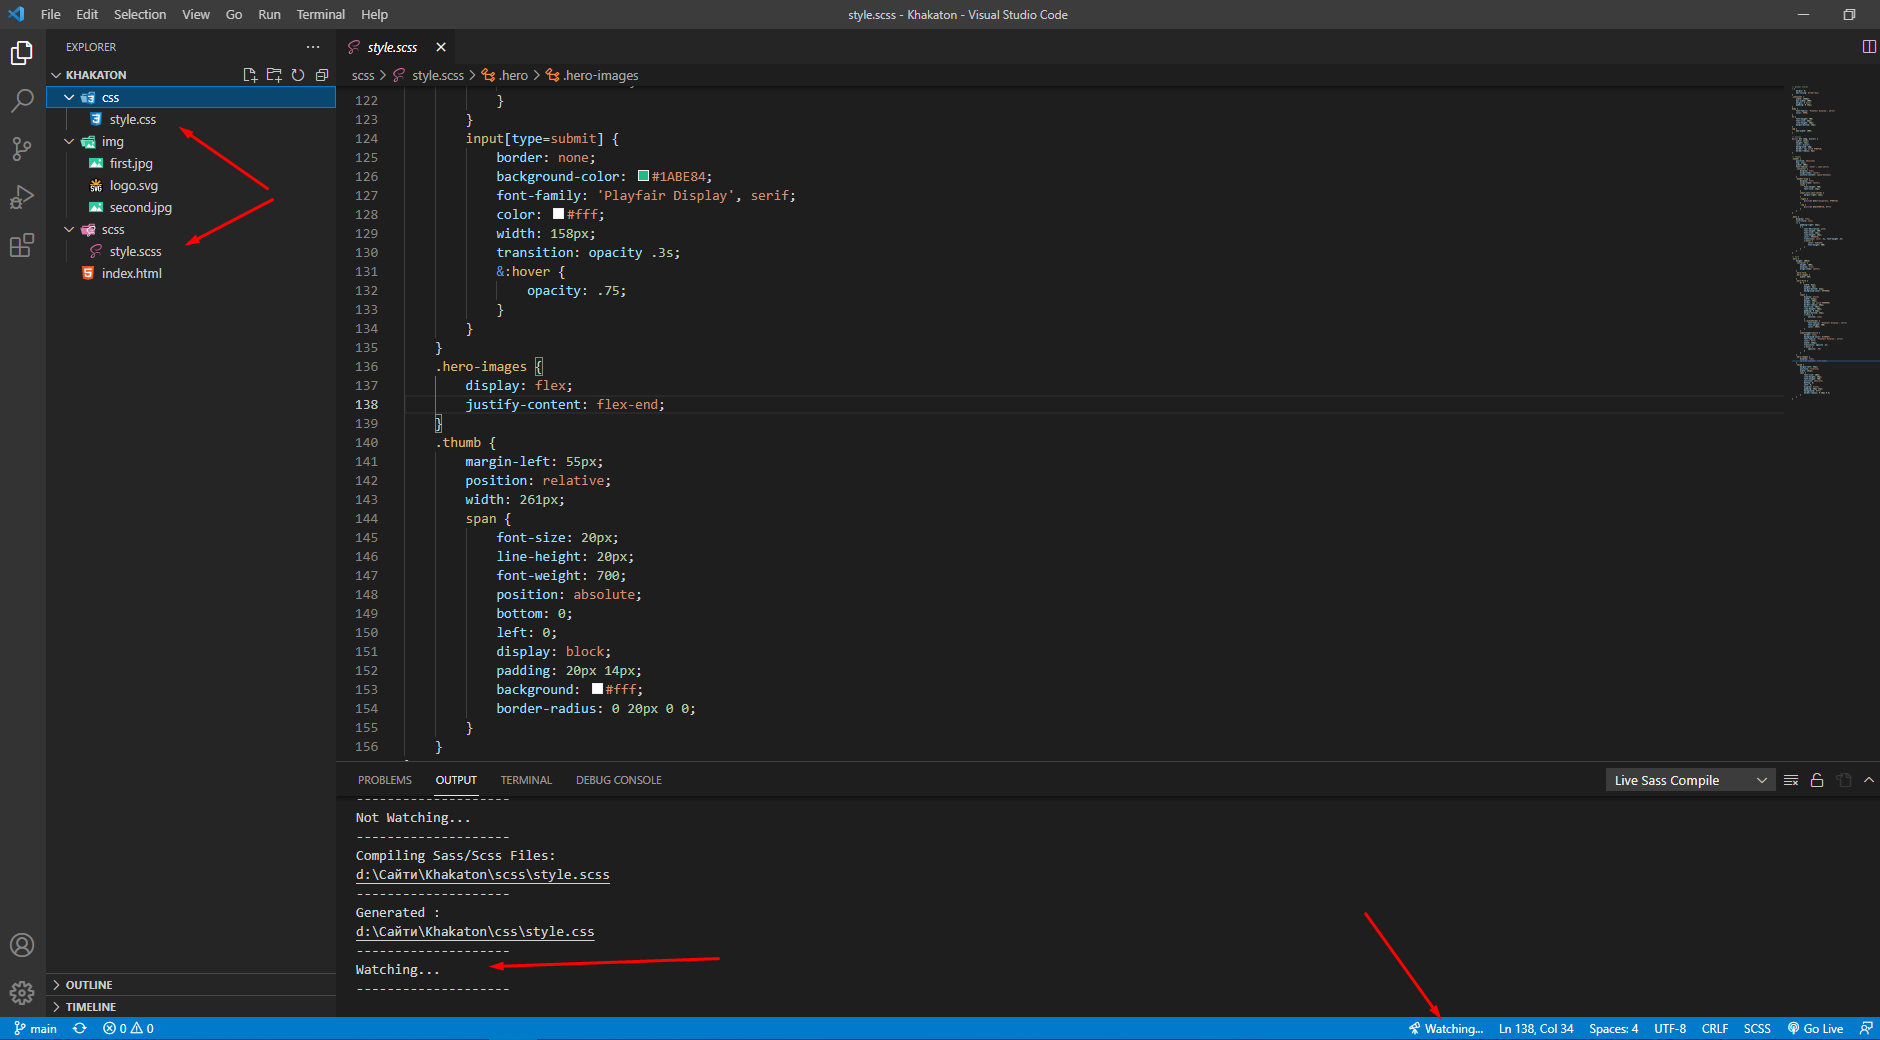
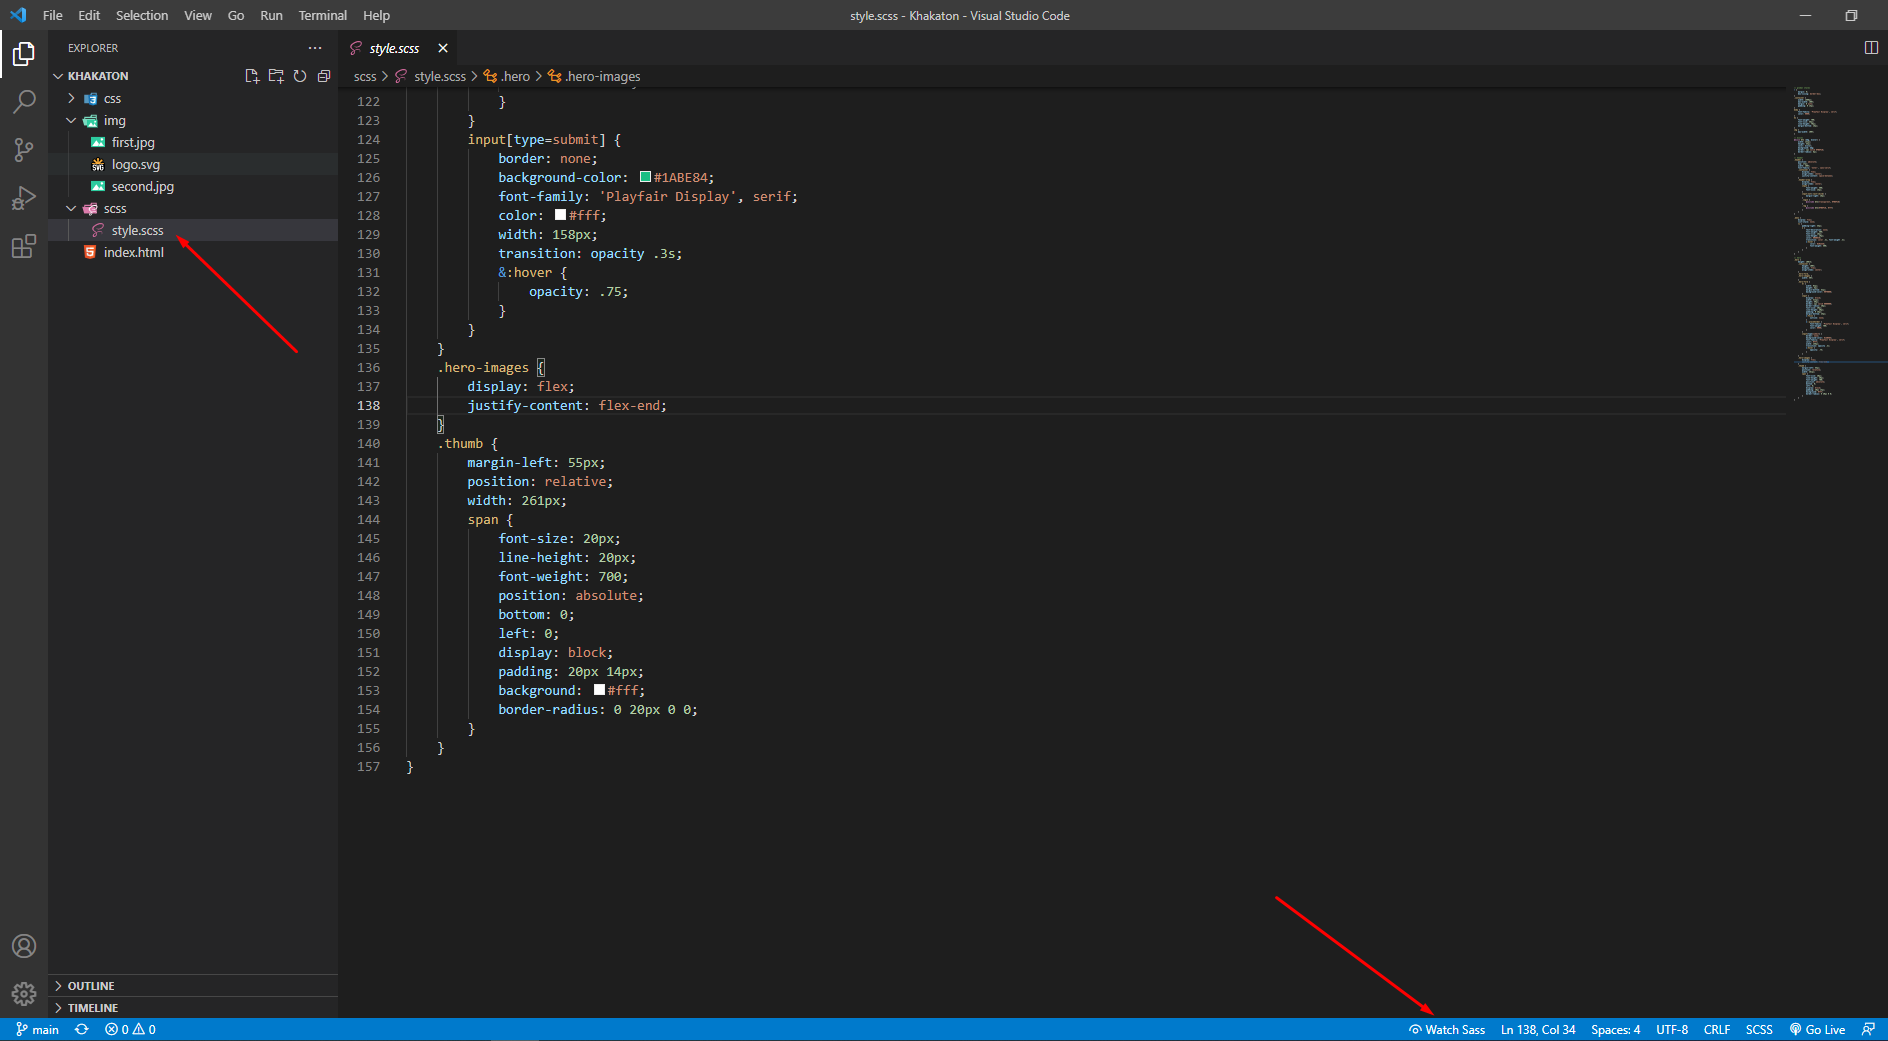
GitBook: [master] 31 pages and 6 assets modified

diff --git a/urok-30.-preprocesori-sass-scss.-pidklyuchennya-do-proektu..md b/urok-30.-preprocesori-sass-scss.-pidklyuchennya-do-proektu..md
@@ -125,15 +125,15 @@ $nothing: null;
 
 Тепер ми можемо створити файл із розширенням .scss. Саме таке розширення мають файли препроцесора. Наприклад, style.scss. Коли такий файл створено, то внизу редактора з'являється кнопка "Watch sass". Необхідно натиснути на неї і наше розширення почне відстежувати зміни в файлі. Після кожного збереження буде заново компілюватись однойменний файл стилів у форматі .css
 
-![&#x424;&#x430;&#x439;&#x43B; &#x434;&#x43E; &#x432;&#x432;&#x456;&#x43C;&#x43A;&#x43D;&#x435;&#x43D;&#x43D;&#x44F; &#x440;&#x43E;&#x437;&#x448;&#x438;&#x440;&#x435;&#x43D;&#x43D;&#x44F;](.gitbook/assets/image%20%2822%29.png)
+![&#x424;&#x430;&#x439;&#x43B; &#x434;&#x43E; &#x432;&#x432;&#x456;&#x43C;&#x43A;&#x43D;&#x435;&#x43D;&#x43D;&#x44F; &#x440;&#x43E;&#x437;&#x448;&#x438;&#x440;&#x435;&#x43D;&#x43D;&#x44F;](.gitbook/assets/image%20%2823%29.png)
 
-![&#x421;&#x43A;&#x43E;&#x43C;&#x43F;&#x456;&#x43B;&#x44C;&#x43E;&#x432;&#x430;&#x43D;&#x438;&#x439; &#x444;&#x430;&#x439;&#x43B; &#x441;&#x442;&#x438;&#x43B;&#x456;&#x432; &#x443; &#x444;&#x43E;&#x440;&#x43C;&#x430;&#x442;&#x456; .css](.gitbook/assets/image%20%2823%29.png)
+![&#x421;&#x43A;&#x43E;&#x43C;&#x43F;&#x456;&#x43B;&#x44C;&#x43E;&#x432;&#x430;&#x43D;&#x438;&#x439; &#x444;&#x430;&#x439;&#x43B; &#x441;&#x442;&#x438;&#x43B;&#x456;&#x432; &#x443; &#x444;&#x43E;&#x440;&#x43C;&#x430;&#x442;&#x456; .css](.gitbook/assets/image%20%2824%29.png)
 
 Без налаштувань, компілятор створить звичайний файл стилів однойменний із файлом препроцесора, а також карту стилів. І все це він збереже в поточній папці. Зазвичай така карта є зайвою. А також зручно зберігати файли різного формату в окремих папках. Тому, пропоную виконати деякі налаштування розширення.
 
 Для цього натискаємо комбінацію клавіш Ctrl + Shift + P і вводимо "Open settings \(Json\)"
 
-![](.gitbook/assets/image%20%2824%29.png)
+![](.gitbook/assets/image%20%2825%29.png)
 
 Відкриється файл налаштувань, в кінці якого потрібно ввести наступний код:
 
@@ -151,7 +151,7 @@ $nothing: null;
 
 Після таких налаштувань ми створюємо окрему папку для файлів препроцесора. Зазвичай її називають `scss`. Після ввімкнення розширення. він скомпілює стилі в папку `css`.
 
-![](.gitbook/assets/image%20%2821%29.png)
+![](.gitbook/assets/image%20%2822%29.png)
 
 ### IV. Застосування знань на практиці
 

diff --git a/urok-31.-preprocesori-sass-scss-miksini-ta-import-failiv..md b/urok-31.-preprocesori-sass-scss-miksini-ta-import-failiv..md
@@ -18,6 +18,35 @@
 
 ### ІІІ. Вивчення нового матеріалу
 
+#### Імпорт файлів
+
+Коли проект доволі масштабний, то є сенс розділяти таблицю стилів на окремі файли. Наприклад:
+
+* mixins.css
+* header.scss
+* main.scss
+* footer.scss
+* blog.scss
+* home-page.scss
+
+І всі ці файли ми скомпілюємо в один файл style.css. Тому файл style.css теж потрібен.
+
+Щоб підключити до основного файлу стилів інші файли, потрібно на самому початку коду прописати директиву @import
+
+```text
+@import "mixins";
+```
+
+Крім одного файлу можна підключати декілька, через кому
+
+```text
+@import "mixins", "header", "footer";
+```
+
+Але є один нюанс. Компілятор крім основного файлу `style.css` створить однойменні файли до інших файлів із розширенням `.scss`. Щоб такого не відбувалося і щоб не плодити зайві файли ми раніше перелічені в списку стилі із розширенням .scss перейменуємо і додамо до кожного файлу  нижнє підкреслення на початку.
+
+![&#x41F;&#x440;&#x438;&#x43A;&#x43B;&#x430;&#x434; &#x43E;&#x431;&apos;&#x454;&#x43C;&#x43D;&#x43E;&#x433;&#x43E; &#x43F;&#x440;&#x43E;&#x435;&#x43A;&#x442;&#x443; &#x456;&#x437; &#x434;&#x435;&#x43A;&#x456;&#x43B;&#x44C;&#x43A;&#x43E;&#x43C;&#x430; &#x444;&#x430;&#x439;&#x43B;&#x430;&#x43C;&#x438; &#x441;&#x442;&#x438;&#x43B;&#x456;&#x432;](.gitbook/assets/image%20%2821%29.png)
+
 #### Міксіни
 
 Міксіни оголошуються директивою `@mixin`. Після неї має стояти ім'я міксіну і, опціонально, його параметри, а також блок, що містить тіло міксіну. Наприклад, можна визначити міксін `flexible()`, який буде додано, наприклад, до класу `.centered-elements` наступним чином:
